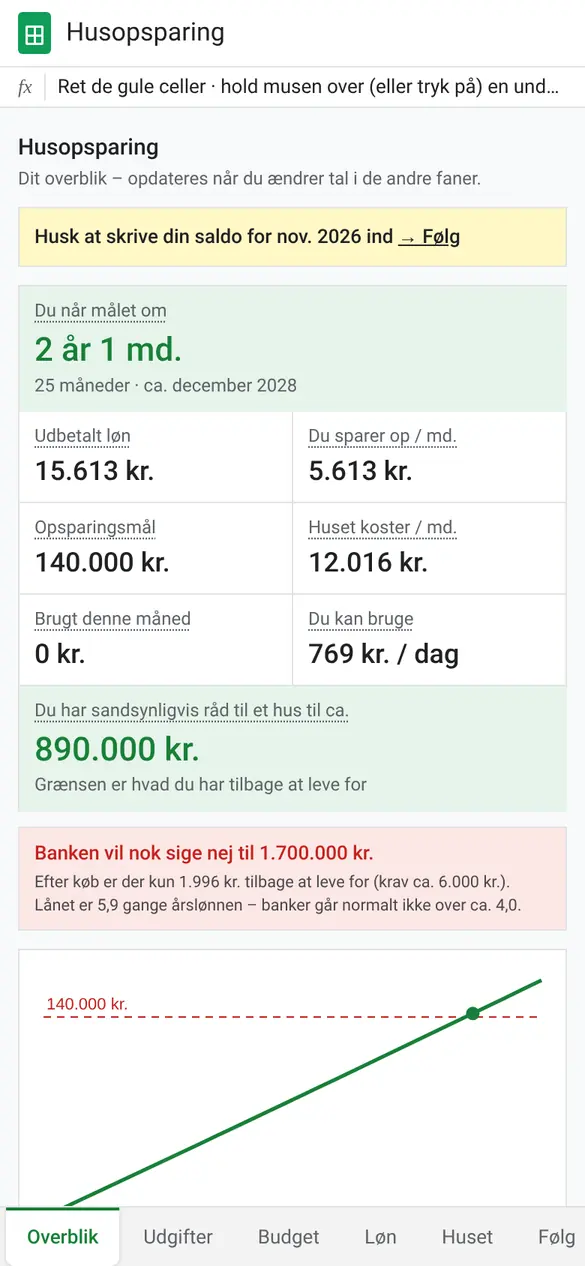
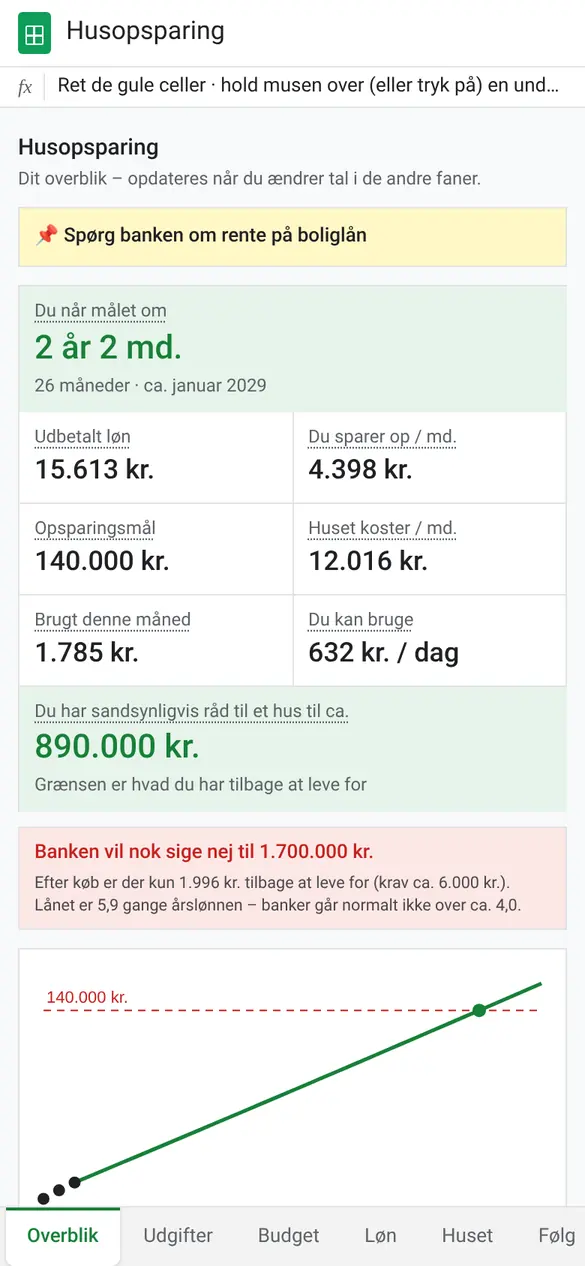
Husopsparing 1.2.0: ret/fortryd posteringer, hurtigknapper, egne kategorier, opsparingsmål, prognose og automatisk løn
Claude-Session: https://claude.ai/code/session_011iMT48mHBPjuzu49fkQZDg

diff --git a/apps/husopsparing/app/src/main/assets/index.html b/apps/husopsparing/app/src/main/assets/index.html
@@ -180,6 +180,21 @@ nav button.on{background:var(--card);color:var(--accent);font-weight:500;border-
 #m-txt{width:100%;font:12px/1.4 monospace;border:1px solid var(--grid);background:var(--bg);color:var(--ink);padding:8px}
 #u-list .trow{grid-template-columns:1.6fr .1fr 1fr auto}
 nav div{scrollbar-width:none}nav div::-webkit-scrollbar{display:none}
+.chips{display:flex;gap:6px;overflow-x:auto;padding:7px 8px;border-bottom:1px solid var(--grid);scrollbar-width:none}
+.chips::-webkit-scrollbar{display:none}
+.qchip{flex:none;border:1px solid var(--grid);background:var(--hdr);color:var(--ink);font:inherit;font-size:12px;padding:5px 10px;border-radius:14px;cursor:pointer;white-space:nowrap}
+.qchip small{color:var(--muted)}
+.tedit{cursor:pointer}.tedit:hover{color:var(--accent)}
+.trow.editing{background:var(--accent-soft)}
+.snack{position:fixed;left:50%;bottom:64px;transform:translateX(-50%);z-index:70;background:#323232;color:#fff;border-radius:4px;padding:10px 12px 10px 16px;display:none;align-items:center;gap:14px;max-width:92vw;box-shadow:0 3px 10px rgba(0,0,0,.3);font-size:13px}
+.snack.on{display:flex}
+.snack button{border:0;background:none;color:#8ab4f8;font:inherit;font-weight:600;cursor:pointer;text-transform:uppercase;letter-spacing:.03em}
+.goal{border-bottom:1px solid var(--grid)}.goal:last-child{border-bottom:0}
+.goal input.name{width:100%;box-sizing:border-box;font:inherit;font-weight:500;border:0;border-bottom:1px solid var(--grid);padding:7px 8px;background:transparent;color:var(--ink)}
+.goal input.name:focus{outline:2px solid #1a73e8;outline-offset:-2px}
+.mres{display:flex;align-items:center;gap:10px;padding:6px 8px;font-size:12.5px;color:var(--muted)}
+.mres .bar{flex:0 0 80px;margin:0}
+.mres span{flex:1}
 #tt{position:fixed;z-index:50;max-width:260px;background:#3c4043;color:#fff;font:12px/1.45 Roboto,Arial,sans-serif;padding:8px 10px;border-radius:4px;box-shadow:0 2px 8px rgba(0,0,0,.25);pointer-events:none;display:none}
 </style>
 <div class="topbar"><div class="t"><div class="logo"></div><div class="name">Husopsparing</div></div><div class="fx"><b>fx</b><span id="fxbar">Ret de gule celler · hold musen over (eller tryk på) en understreget tekst for en forklaring</span></div></div>
@@ -214,14 +229,16 @@ nav div{scrollbar-width:none}nav div::-webkit-scrollbar{display:none}
       <div class="tile"><div class="l">Tilbage af budget</div><div class="n" id="u-tilbage">–</div></div>
       <div class="tile hero"><div class="l">Du kan bruge</div><div class="n" id="u-dag">–</div><div class="l" id="u-dag-l"></div></div>
     </div>
-    <h2>Ny postering</h2>
+    <div id="u-prog" class="verdict" style="display:none"></div>
+    <h2 id="u-form-h">Ny postering</h2>
     <div class="card" id="u-form">
       <div class="seg" id="u-type"><button data-v="ud" class="on">Udgift</button><button data-v="ind">Indtægt</button></div>
+      <div class="chips" id="u-quick"></div>
       <div class="row"><label>Beløb</label><div class="inp"><input id="u-bel" inputmode="decimal" placeholder="0"><span>kr.</span></div></div>
       <div class="row"><label>Kategori</label><div><select id="u-kat"></select></div></div>
       <div class="row"><label>Note</label><div class="inp" style="background:var(--card)"><input id="u-note" placeholder="Fx Netto" style="text-align:left;width:140px"></div></div>
       <div class="row"><label>Dato</label><div class="inp" style="background:var(--card)"><input type="date" id="u-dato" style="width:140px"></div></div>
-      <div class="addrow" style="justify-content:flex-end"><button class="use" id="u-add">Gem postering</button></div>
+      <div class="addrow" style="justify-content:flex-end"><button class="use" id="u-cancel" style="background:var(--muted);display:none">Annullér</button><button class="use" id="u-add">Gem postering</button></div>
     </div>
     <h2>Budget pr. kategori i perioden</h2>
     <div class="card" id="u-kat-list"></div>
@@ -235,6 +252,7 @@ nav div{scrollbar-width:none}nav div::-webkit-scrollbar{display:none}
     <h2>Indstillinger og data</h2>
     <div class="card">
       <div class="row"><label>Måneden starter den<span class="hint">Din løndag</span></label><div class="inp"><input data-k="lonDag" inputmode="decimal"><span>.</span></div></div>
+      <label class="toggle"><input type="checkbox" id="u-autolon"> Bogfør min udbetalte løn automatisk på løndagen</label>
       <div class="addrow">
         <button class="use" id="u-csv">Eksportér CSV</button>
         <button class="use" id="u-backup">Gem backup</button>
@@ -285,6 +303,9 @@ nav div{scrollbar-width:none}nav div::-webkit-scrollbar{display:none}
     <h2>Dine udgifter</h2>
     <div class="card" id="b-items"></div>
     <button class="btn" id="add">+ Tilføj udgift</button>
+    <h2>Egne kategorier</h2>
+    <div class="card" id="k-list"></div>
+    <div class="card"><div class="addrow"><div class="inp" style="background:var(--card);flex:1"><input id="k-ny" placeholder="Fx Kæledyr" style="text-align:left;width:100%"></div><button class="use" id="k-add">Tilføj</button></div></div>
   </section>
 
   <section id="s-hus">
@@ -344,6 +365,10 @@ nav div{scrollbar-width:none}nav div::-webkit-scrollbar{display:none}
     <div id="t-status" class="verdict" style="display:none"></div>
     <div class="card" id="t-list"></div>
     <p class="note">Din seneste saldo bruges automatisk som "Allerede sparet op" under Huset.</p>
+    <h2>Andre opsparingsmål</h2>
+    <div class="card" id="m-list"></div>
+    <button class="btn" id="m-add">+ Nyt opsparingsmål</button>
+    <p class="note">Fx ferie, bil eller buffer. Når opsparingen følger budgettet, går beløbet til dine andre mål fra, før resten går til huset.</p>
   </section>
   <section id="s-noter">
     <h1>Noter</h1>
@@ -366,6 +391,7 @@ nav div{scrollbar-width:none}nav div::-webkit-scrollbar{display:none}
   </section>
 </main>
 
+<div id="snack" class="snack"><span id="snack-t"></span><button id="snack-b">Fortryd</button></div>
 <div id="modal" class="modal" style="display:none"><div class="mbox"><h1 id="m-t"></h1><p class="sub" id="m-s"></p><textarea id="m-txt" rows="8"></textarea><div class="addrow" style="justify-content:flex-end"><button class="use" id="m-ok"></button><button class="use" id="m-luk" style="background:var(--muted)">Luk</button></div></div></div>
 <nav><div>
   <button data-t="overblik" class="on"><b>◎</b>Overblik</button>
@@ -378,7 +404,9 @@ nav div{scrollbar-width:none}nav div::-webkit-scrollbar{display:none}
 </div></nav>
 
 <script>
-const KATS=["Bolig","Mad","Transport","Abonnementer","Forsikring","Fritid","Gæld og lån","Andet"];
+const BASE_KATS=["Bolig","Mad","Transport","Abonnementer","Forsikring","Fritid","Gæld og lån","Andet"];
+let KATS=BASE_KATS.slice();
+function refreshKats(){KATS=BASE_KATS.slice(0,-1).concat((S.egneKat||[]).filter(k=>k&&!BASE_KATS.includes(k)),["Andet"])}
 const FAST=["Transport","Abonnementer","Forsikring","Gæld og lån"];
 const FREQ={"Måned":1,"Kvartal":3,"Halvår":6,"År":12};
 const DEF={
@@ -397,7 +425,7 @@ const DEF={
     {n:"Tøj, fritid og andet",k:"Fritid",b:900,f:"Måned"}
   ],
   log:[],
-  noter:[],rOn:true,rDag:1,tx:[],lonDag:1,
+  noter:[],rOn:true,rDag:1,tx:[],lonDag:1,egneKat:[],maal:[],fastSkip:[],autoLon:false,
   fradr:[{n:"Kørselsfradrag",b:0},{n:"Fagforening og a-kasse",b:0},{n:"Renter på lån (fx billån, SU-lån)",b:0}]
 };
 const clone=o=>JSON.parse(JSON.stringify(o));
@@ -408,6 +436,7 @@ if(!S||typeof S!=="object")S=clone(DEF);
 for(const k in DEF)if(S[k]===undefined)S[k]=clone(DEF[k]);
 S.noter.forEach((n,i)=>{if(!n.id)n.id="n"+Date.now()+"_"+i});
 S.items.forEach((it,i)=>{if(!it.id)it.id="i"+Date.now()+"_"+i});
+refreshKats();
 let syncT=null;
 function save(){const j=JSON.stringify(S);
   if(NATIVE){try{App.save("data",j)}catch(e){}}else{try{localStorage.setItem("husopsparing",j)}catch(e){}}
@@ -463,7 +492,8 @@ function calc(){
   const netto=mig.netto+(par?par.netto:0);
   const ud=b.ud+(par?S.pUd:0);
   const over=netto-ud;
-  const spar=S.auto?over:S.manuel;
+  const andreMaal=maalBehov().sum;
+  const spar=S.auto?over-andreMaal:S.manuel;
   const sl=sidsteLog();
   const sparet=(sl?sl.v:S.sparet)+(S.partner?S.pSparet:0);
   const h=boligFor(S.pris);
@@ -483,7 +513,7 @@ function calc(){
   else{for(let i=0;i<50;i++){const m=(lo+hi)/2;okFor(m)?lo=m:hi=m}}
   const maxPris=Math.floor(lo/10000)*10000;
   const begr=maxPris>0?(boligFor(maxPris+10000).laan/bruttoAar>S.maxGang?"lån":"råd"):"";
-  return {mig,par,b,netto,ud,over,spar,sparet,sl,h,bufferKr,maal,n,andreFaste,rad,krav,leve,gang,maxPris,begr};
+  return {andreMaal,mig,par,b,netto,ud,over,spar,sparet,sl,h,bufferKr,maal,n,andreFaste,rad,krav,leve,gang,maxPris,begr};
 }
 const row=(k,v,cls)=>`<div class="row"><span class="k">${k}</span><span class="v"${cls?` style="color:var(--${cls})"`:""}>${v}</span></div>`;
 function dato(n){if(!isFinite(n))return"";const d=new Date();d.setMonth(d.getMonth()+n);return"ca. "+d.toLocaleDateString("da-DK",{month:"long",year:"numeric"})}
@@ -536,7 +566,7 @@ function render(){
   document.getElementById("sparet-hint").textContent=sl?"Hentes fra Følg ("+mdNavn(sl.m)+")":"";
   document.getElementById("manuel-row").style.display=S.auto?"none":"";
   document.getElementById("h-res1").innerHTML=
-    (S.auto?row("Opsparing pr. måned (fra budget)",kr(c.spar),c.spar<=0?"warn":""):"")+
+    (S.auto?(c.andreMaal>0?row("Til overs i budgettet",kr(c.over))+row("Til andre mål","−"+kr(c.andreMaal)):"")+row(c.andreMaal>0?"Opsparing pr. måned til huset":"Opsparing pr. måned (fra budget)",kr(c.spar),c.spar<=0?"warn":""):"")+
     (S.partner&&S.pSparet>0?row("Sparet op i alt (begge)",kr(c.sparet)):"")+
     row("Udbetaling",kr(h.udb))+row("Omkostninger",kr(S.omk))+(c.bufferKr>0?row("Buffer ("+fmtIn(S.buffer)+" md.)",kr(c.bufferKr)):"")+
     row("<b>Opsparingsmål i alt</b>",kr(c.maal))+row("Mangler endnu",kr(Math.max(0,c.maal-c.sparet)))+
@@ -701,7 +731,11 @@ function bookFaste(){
     let [y,m]=(it.fastFra||nuYM()).split("-").map(Number);m--;
     for(let k=0;k<36;k++){const dd=new Date(y,m+k,Math.min(28,it.dag||1));if(iso(dd)>today)break;
       const ym=iso(dd).slice(0,7);
-      if(!S.tx.some(t=>t.fast===it.id&&t.d.slice(0,7)===ym)){S.tx.push({id:"t"+Date.now()+"_"+(n++),d:iso(dd),b:+it.b||0,k:it.k,n:(it.n||"Fast betaling")+" (fast)",type:"ud",fast:it.id})}}});
+      if(!S.tx.some(t=>t.fast===it.id&&t.d.slice(0,7)===ym)&&!(S.fastSkip||[]).includes(it.id+"|"+ym)){S.tx.push({id:"t"+Date.now()+"_"+(n++),d:iso(dd),b:+it.b||0,k:it.k,n:(it.n||"Fast betaling")+" (fast)",type:"ud",fast:it.id})}}});
+  if(S.autoLon){let [y,m]=(S.autoLonFra||nuYM()).split("-").map(Number);m--;
+    const netto=Math.round(skatFor(S.brutto,S.kommune,S.pension,S.atp,S.fradr.reduce((a,f)=>a+(+f.b||0),0)).netto);
+    for(let k=0;k<36;k++){const dd=new Date(y,m+k,LD());if(iso(dd)>today)break;const ym=iso(dd).slice(0,7);
+      if(!S.tx.some(t=>t.fast==="lon"&&t.d.slice(0,7)===ym)&&!(S.fastSkip||[]).includes("lon|"+ym)){S.tx.push({id:"t"+Date.now()+"_"+(n++),d:iso(dd),b:netto,k:"Løn",n:"Løn (automatisk)",type:"ind",fast:"lon"})}}}
   if(n)save();
 }
 function udgStat(){
@@ -711,7 +745,13 @@ function udgStat(){
   const budget=budget0().ud, tilbage=budget-brugt;
   const dage=Math.max(1,Math.round((en-new Date(now.getFullYear(),now.getMonth(),now.getDate()))/86400000));
   const perKat={};ud.forEach(t=>perKat[t.k]=(perKat[t.k]||0)+t.b);
-  return {st,en,brugt,indt,budget,tilbage,dage,perDag:tilbage/dage,perKat};
+  const today=new Date(now.getFullYear(),now.getMonth(),now.getDate());
+  const gaaet=Math.max(1,Math.round((today-st)/86400000)+1), total=Math.round((en-st)/86400000);
+  const variabel=ud.filter(t=>!t.fast).reduce((a,t)=>a+t.b,0), fastBogf=ud.filter(t=>t.fast).reduce((a,t)=>a+t.b,0);
+  let fastKommer=0;S.items.forEach(it=>{if(!it.fast||it.f!=="Måned")return;[0,1].forEach(o=>{const d=new Date(st.getFullYear(),st.getMonth()+o,Math.min(28,it.dag||1));
+    if(d>today&&d<en&&!ud.some(t=>t.fast===it.id&&t.d.slice(0,7)===iso(d).slice(0,7)))fastKommer+=+it.b||0})});
+  const prognose=gaaet>=3&&variabel>0?variabel/gaaet*total+fastBogf+fastKommer:null;
+  return {st,en,brugt,indt,budget,tilbage,dage,perDag:tilbage/dage,perKat,prognose};
 }
 function budget0(){const kat={};KATS.forEach(k=>kat[k]=0);S.items.forEach(it=>{kat[it.k]=(kat[it.k]||0)+perMd(it)});return {kat,ud:Object.values(kat).reduce((a,b)=>a+b,0)}}
 let uType="ud";
@@ -723,6 +763,11 @@ function renderUdg(){
   const t=document.getElementById("u-tilbage");t.textContent=kr(u.tilbage);t.style.color=u.tilbage<0?"var(--warn)":"var(--accent)";
   document.getElementById("u-dag").textContent=u.tilbage>0?kr(u.perDag)+" om dagen":"0 kr. om dagen";
   document.getElementById("u-dag-l").textContent=u.dage+" dage tilbage af perioden"+(u.tilbage<0?" · du er "+kr(-u.tilbage)+" over budget":"");
+  const pg=document.getElementById("u-prog");
+  if(u.prognose!=null&&u.budget>0){const diff=u.budget-u.prognose;pg.style.display="";pg.className="verdict "+(diff>=0?"ok":"bad");
+    pg.innerHTML=`Prognose: ca. ${kr(u.prognose)} i denne periode<small>Med dit nuværende tempo ender du ${kr(Math.abs(diff))} ${diff>=0?"under":"over"} budgettet. Faste betalinger, der mangler, er regnet med.</small>`}
+  else pg.style.display="none";
+  renderQuick();
   document.getElementById("o-brugt").textContent=kr(u.brugt);
   const od=document.getElementById("o-dag");od.textContent=(u.tilbage>0?kr(u.perDag):"0 kr.")+" / dag";od.style.color=u.tilbage<0?"var(--warn)":"";
   // kategorier
@@ -734,8 +779,12 @@ function renderUdg(){
   const list=S.tx.slice().sort((a,b)=>a.d<b.d?1:a.d>b.d?-1:0).filter(t=>!q||(t.n+" "+t.k+" "+t.d).toLowerCase().includes(q)).slice(0,q?200:60);
   let last="";
   document.getElementById("u-list").innerHTML=list.map(t=>{const h=t.d!==last?`<div class="trow h"><span>${new Date(t.d+"T12:00").toLocaleDateString("da-DK",{weekday:"short",day:"numeric",month:"short"})}</span><span></span><span></span><span></span></div>`:"";last=t.d;
-    return h+`<div class="trow"><span>${esc(t.n||t.k)}<br><small style="color:var(--muted)">${t.k}</small></span><span></span><span style="color:var(--${t.type==="ind"?"accent":"ink"})">${t.type==="ind"?"+":"−"}${kr(t.b)}</span><span style="white-space:nowrap"><button class="del" data-rep="${t.id}" title="Gentag i dag">↻</button><button class="del" data-tdel="${t.id}" title="Slet">×</button></span></div>`}).join("")||`<div class="row"><span class="k" style="color:var(--muted)">${q?"Ingen posteringer matcher":"Ingen posteringer endnu"}</span></div>`;
-  document.querySelectorAll("[data-tdel]").forEach(x=>x.onclick=()=>{S.tx=S.tx.filter(t=>t.id!==x.dataset.tdel);save();render()});
+    return h+`<div class="trow${t.id===editId?" editing":""}"><span class="tedit" data-edit="${t.id}" title="Tryk for at rette">${esc(t.n||t.k)}<br><small style="color:var(--muted)">${esc(t.k)}${t.fast?" · fast":""}</small></span><span></span><span style="color:var(--${t.type==="ind"?"accent":"ink"})">${t.type==="ind"?"+":"−"}${kr(t.b)}</span><span style="white-space:nowrap"><button class="del" data-rep="${t.id}" title="Gentag i dag">↻</button><button class="del" data-tdel="${t.id}" title="Slet">×</button></span></div>`}).join("")||`<div class="row"><span class="k" style="color:var(--muted)">${q?"Ingen posteringer matcher":"Ingen posteringer endnu"}</span></div>`;
+  document.querySelectorAll("[data-tdel]").forEach(x=>x.onclick=()=>{const o=S.tx.find(t=>t.id===x.dataset.tdel);if(!o)return;
+    S.tx=S.tx.filter(t=>t!==o);const skip=o.fast?o.fast+"|"+o.d.slice(0,7):null;if(skip)S.fastSkip=(S.fastSkip||[]).concat(skip);
+    if(editId===o.id)resetForm();save();render();
+    snack(`Slettet: ${o.n||o.k} (${kr(o.b)})`,()=>{S.tx.push(o);if(skip)S.fastSkip=S.fastSkip.filter(x=>x!==skip);save();render()})});
+  document.querySelectorAll("[data-edit]").forEach(x=>x.onclick=()=>{const o=S.tx.find(t=>t.id===x.dataset.edit);if(o)startEdit(o)});
   document.querySelectorAll("[data-rep]").forEach(x=>x.onclick=()=>{const o=S.tx.find(t=>t.id===x.dataset.rep);if(!o)return;S.tx.push({...o,id:"t"+Date.now(),d:iso(new Date()),fast:undefined});save();render();if(NATIVE)try{App.toast("Gentaget: "+kr(o.b))}catch(e){}});
   drawUdgChart(u,b);
 }
@@ -753,16 +802,77 @@ function drawUdgChart(u,b){
   const prev=vals[4],cur=vals[5];
   document.getElementById("u-sammen").textContent=prev>0?("Sidste periode: "+kr(prev)+" ("+(cur>=prev?"+":"−")+Math.abs(Math.round((cur-prev)/prev*100))+" % indtil nu)"):"";
 }
-document.querySelectorAll("#u-type button").forEach(x=>x.onclick=()=>{uType=x.dataset.v;document.querySelectorAll("#u-type button").forEach(y=>y.classList.toggle("on",y===x));fillKat()});
-function fillKat(){const sel=document.getElementById("u-kat");const ks=uType==="ind"?["Løn","Gave","Andet"]:KATS;sel.innerHTML=ks.map(k=>`<option>${k}</option>`).join("")}
+document.querySelectorAll("#u-type button").forEach(x=>x.onclick=()=>{setType(x.dataset.v);renderQuick()});
+function fillKat(){const sel=document.getElementById("u-kat");const ks=uType==="ind"?["Løn","Gave","Andet"]:KATS;sel.innerHTML=ks.map(k=>`<option>${esc(k)}</option>`).join("");if(uType!=="ind")sel.value="Mad"}
 fillKat();
 document.getElementById("u-dato").value=iso(new Date());
 document.getElementById("u-sog").addEventListener("input",renderUdg);
-document.getElementById("u-add").addEventListener("click",()=>{
-  const bel=num(document.getElementById("u-bel").value);if(!(bel>0)){document.getElementById("u-bel").focus();return}
-  S.tx.push({id:"t"+Date.now(),d:document.getElementById("u-dato").value||iso(new Date()),b:bel,k:document.getElementById("u-kat").value,n:document.getElementById("u-note").value.trim(),type:uType});
-  document.getElementById("u-bel").value="";document.getElementById("u-note").value="";document.getElementById("u-dato").value=iso(new Date());
-  save();render();if(NATIVE)try{App.haptic("tick");App.toast("Gemt: "+kr(bel))}catch(e){}});
+let editId=null;
+const $id=x=>document.getElementById(x);
+function setType(v){uType=v;document.querySelectorAll("#u-type button").forEach(y=>y.classList.toggle("on",y.dataset.v===v));fillKat()}
+function resetForm(){editId=null;$id("u-bel").value="";$id("u-note").value="";$id("u-dato").value=iso(new Date());
+  $id("u-add").textContent="Gem postering";$id("u-cancel").style.display="none";$id("u-form-h").textContent="Ny postering";
+  const h=$id("u-form-h").querySelector(".tip");if(h)h.textContent="Ny postering"}
+function startEdit(o){editId=o.id;setType(o.type==="ind"?"ind":"ud");
+  const sel=$id("u-kat");if(![...sel.options].some(op=>op.value===o.k))sel.insertAdjacentHTML("beforeend",`<option>${esc(o.k)}</option>`);sel.value=o.k;
+  $id("u-bel").value=fmtIn(o.b);$id("u-note").value=o.n||"";$id("u-dato").value=o.d;
+  $id("u-add").textContent="Gem ændring";$id("u-cancel").style.display="";$id("u-form-h").textContent="Ret postering";
+  renderUdg();$id("u-form-h").scrollIntoView({behavior:"smooth",block:"start"});setTimeout(()=>$id("u-bel").focus(),300)}
+$id("u-cancel").onclick=()=>{resetForm();renderUdg()};
+$id("u-add").addEventListener("click",()=>{
+  const bel=num($id("u-bel").value);if(!(bel>0)){$id("u-bel").focus();return}
+  const v={d:$id("u-dato").value||iso(new Date()),b:bel,k:$id("u-kat").value,n:$id("u-note").value.trim(),type:uType};
+  if(editId){const o=S.tx.find(t=>t.id===editId);if(o)Object.assign(o,v);resetForm();save();render();if(NATIVE)try{App.toast("Rettet")}catch(e){}return}
+  S.tx.push({id:"t"+Date.now(),...v});
+  resetForm();save();render();if(NATIVE)try{App.haptic("tick");App.toast("Gemt: "+kr(bel))}catch(e){}});
+function renderQuick(){
+  const box=$id("u-quick");if(uType!=="ud"||editId){box.style.display="none";return}
+  const since=iso(new Date(Date.now()-120*86400000)),cnt={};
+  S.tx.forEach(t=>{if(t.type==="ind"||t.fast||!t.n||t.d<since)return;const k=t.n+"|"+t.k;cnt[k]=(cnt[k]||0)+1});
+  const top=Object.entries(cnt).sort((a,b)=>b[1]-a[1]).slice(0,6);
+  box.style.display=top.length?"":"none";
+  box.innerHTML=top.map(([k])=>{const [n,kat]=k.split("|");return `<button class="qchip" data-n="${esc(n)}" data-k="${esc(kat)}">${esc(n)} <small>${esc(kat)}</small></button>`}).join("");
+  box.querySelectorAll(".qchip").forEach(b=>b.onclick=()=>{$id("u-note").value=b.dataset.n;const sel=$id("u-kat");if(![...sel.options].some(o=>o.value===b.dataset.k))sel.insertAdjacentHTML("beforeend",`<option>${esc(b.dataset.k)}</option>`);sel.value=b.dataset.k;$id("u-bel").focus()});
+}
+let snackT=null;
+function snack(text,undo){const el=$id("snack");$id("snack-t").textContent=text;const b=$id("snack-b");b.style.display=undo?"":"none";
+  b.onclick=()=>{el.classList.remove("on");clearTimeout(snackT);undo&&undo()};el.classList.add("on");clearTimeout(snackT);snackT=setTimeout(()=>el.classList.remove("on"),6000)}
+const al=$id("u-autolon");al.checked=!!S.autoLon;al.onchange=()=>{S.autoLon=al.checked;if(al.checked&&!S.autoLonFra)S.autoLonFra=nuYM();save();bookFaste();render()};
+/* ===== Egne kategorier ===== */
+function renderKats(){
+  const box=$id("k-list"),eg=(S.egneKat||[]);
+  box.innerHTML=eg.length?eg.map((k,i)=>`<div class="row"><span class="k">${esc(k)}</span><div><button class="del" data-kdel="${i}" title="Slet">×</button></div></div>`).join(""):`<div class="row"><span class="k" style="color:var(--muted)">Ingen egne kategorier endnu</span></div>`;
+  box.querySelectorAll("[data-kdel]").forEach(b=>b.onclick=()=>{const k=eg[+b.dataset.kdel];const snap=JSON.stringify({items:S.items,tx:S.tx,egneKat:S.egneKat});
+    S.egneKat=eg.filter(x=>x!==k);S.items.forEach(it=>{if(it.k===k)it.k="Andet"});S.tx.forEach(t=>{if(t.k===k)t.k="Andet"});
+    refreshKats();save();renderKats();renderItems();fillKat();render();
+    snack(`Kategorien "${k}" er slettet – posterne er flyttet til Andet`,()=>{Object.assign(S,JSON.parse(snap));refreshKats();save();renderKats();renderItems();fillKat();render()})});
+}
+$id("k-add").onclick=()=>{const inp=$id("k-ny"),k=inp.value.trim().replace(/\s+/g," ");if(!k){inp.focus();return}
+  if(KATS.some(x=>x.toLowerCase()===k.toLowerCase())){snack(`"${k}" findes allerede`);return}
+  S.egneKat=(S.egneKat||[]).concat(k);inp.value="";refreshKats();save();renderKats();renderItems();fillKat();render()};
+$id("k-ny").addEventListener("keydown",e=>{if(e.key==="Enter")$id("k-add").click()});
+/* ===== Andre opsparingsmål ===== */
+function maalBehov(){let sum=0;const list=(S.maal||[]).map(m=>{const mangler=Math.max(0,(+m.belob||0)-(+m.sparet||0));
+    const md=m.dato?Math.max(1,mdDiff(nuYM(),m.dato)):0;const pr=md&&mangler>0?mangler/md:0;sum+=pr;return {m,mangler,md,pr}});return {sum,list}}
+function renderMaal(){
+  const box=$id("m-list"),{list}=maalBehov();
+  box.innerHTML=list.length?list.map(({m,mangler,md,pr},i)=>{const p=(+m.belob||0)>0?Math.min(1,(+m.sparet||0)/m.belob):0;
+    return `<div class="goal" data-i="${i}"><input class="name" value="${esc(m.n||"")}" placeholder="Navn, fx Ferie" data-f="n">
+    <div class="row"><label>Beløb du vil nå</label><div class="inp"><input data-f="belob" inputmode="decimal" value="${fmtIn(m.belob||0)}"><span>kr.</span></div></div>
+    <div class="row"><label>Sparet op indtil nu</label><div class="inp"><input data-f="sparet" inputmode="decimal" value="${fmtIn(m.sparet||0)}"><span>kr.</span></div></div>
+    <div class="row"><label>Nås senest</label><div class="inp"><input type="month" data-f="dato" value="${m.dato||""}"></div></div>
+    <div class="mres"><div class="bar"><i style="width:${p*100}%"></i></div><span>${mangler<=0?"🎉 Målet er nået":(md?`Spar <b>${kr(pr)}</b> om måneden i ${md} md.`:"Vælg hvornår du vil nå målet")}</span><button class="del" data-mdel="${i}" title="Slet">×</button></div></div>`}).join("")
+    :`<div class="row"><span class="k" style="color:var(--muted)">Ingen andre mål endnu</span></div>`;
+  box.querySelectorAll(".goal").forEach(r=>{const i=+r.dataset.i;
+    r.querySelectorAll("[data-f]").forEach(el=>{const f=el.dataset.f;
+      el.addEventListener(f==="dato"?"change":"input",()=>{S.maal[i][f]=f==="n"||f==="dato"?el.value:num(el.value);save();render();if(f!=="n")renderMaal()});
+      if(f==="belob"||f==="sparet"){el.addEventListener("blur",()=>el.value=fmtIn(S.maal[i][f]||0));el.addEventListener("focus",()=>el.select())}});
+    r.querySelector("[data-mdel]").onclick=()=>{const o=S.maal.splice(i,1)[0];save();renderMaal();render();snack(`Slettet: ${o.n||"mål"}`,()=>{S.maal.splice(i,0,o);save();renderMaal();render()})};
+  });
+  applyTips&&applyTips();
+}
+$id("m-add").onclick=()=>{const d=new Date();d.setMonth(d.getMonth()+12);S.maal=(S.maal||[]).concat({id:"m"+Date.now(),n:"",belob:10000,sparet:0,dato:d.getFullYear()+"-"+String(d.getMonth()+1).padStart(2,"0")});save();renderMaal();render();
+  const ins=document.querySelectorAll("#m-list .goal input.name");ins[ins.length-1].focus()};
 document.getElementById("u-bel").addEventListener("keydown",e=>{if(e.key==="Enter")document.getElementById("u-add").click()});
 function csvOut(){const rows=[["Dato","Type","Kategori","Note","Beløb"]].concat(S.tx.slice().sort((a,b)=>a.d.localeCompare(b.d)).map(t=>[t.d,t.type==="ind"?"Indtægt":"Udgift",t.k,t.n||"",(t.type==="ind"?1:-1)*t.b]));
   return "\ufeff"+rows.map(r=>r.map(v=>typeof v==="number"?String(v).replace(".",","):`"${String(v).replace(/"/g,'""')}"`).join(";")).join("\r\n")}
@@ -772,7 +882,7 @@ function parseCsv(txt){txt=txt.replace(/^\ufeff/,"");const out=[];const lines=tx
     const ind=(type||"").toLowerCase().startsWith("ind")||v>0&&!(type||"").toLowerCase().startsWith("ud");
     out.push({id:"t"+Date.now()+"_"+i,d,b:Math.abs(v),k:KATS.includes(k)?k:(ind?(k||"Andet"):"Andet"),n:(n||"")+(KATS.includes(k)||!k?"":" ("+k+")"),type:ind?"ind":"ud"})});return out}
 function importTxt(txt){txt=(txt||"").trim();if(!txt)return;
-  if(txt[0]==="{"){try{const o=JSON.parse(txt);if(!o||typeof o!=="object")throw 0;S=Object.assign(clone(DEF),o);save();bindInputs();renderItems();renderFradr();renderNoter();render();msg("Backup gendannet.");}catch(e){msg("Kunne ikke læse backuppen.")}return}
+  if(txt[0]==="{"){try{const o=JSON.parse(txt);if(!o||typeof o!=="object")throw 0;S=Object.assign(clone(DEF),o);refreshKats();save();bindInputs();renderItems();renderFradr();renderNoter();renderKats();renderMaal();render();msg("Backup gendannet.");}catch(e){msg("Kunne ikke læse backuppen.")}return}
   const nye=parseCsv(txt);const kendt=new Set(S.tx.map(t=>t.d+"|"+t.b+"|"+t.n));const add=nye.filter(t=>!kendt.has(t.d+"|"+t.b+"|"+t.n));S.tx.push(...add);save();render();msg(add.length+" posteringer importeret.")}
 function msg(t){if(NATIVE)try{App.toast(t);return}catch(e){}document.getElementById("u-periode").textContent=t}
 function modal(title,sub,text,okLabel,onOk){const m=document.getElementById("modal");document.getElementById("m-t").textContent=title;document.getElementById("m-s").textContent=sub;const ta=document.getElementById("m-txt");ta.value=text||"";document.getElementById("m-ok").textContent=okLabel;
@@ -803,7 +913,7 @@ document.getElementById("t-add").addEventListener("click",()=>{
   S.log=S.log.filter(e=>e.m!==tmd.value);S.log.push({m:tmd.value,v:num(tbel.value)});tbel.value="";save();render()});
 let armed=false;const rb=document.getElementById("reset");
 rb.addEventListener("click",()=>{if(!armed){armed=true;rb.textContent="Tryk igen for at nulstille alt (også din opsparingshistorik)";setTimeout(()=>{armed=false;rb.textContent="Nulstil alle tal til eksemplet"},3000);return}
-  S=clone(DEF);save();bindInputs();renderItems();renderFradr();renderNoter();rOn.checked=!!S.rOn;render();armed=false;rb.textContent="Nulstil alle tal til eksemplet"});
+  S=clone(DEF);refreshKats();save();bindInputs();renderItems();renderFradr();renderNoter();renderKats();renderMaal();rOn.checked=!!S.rOn;$id("u-autolon").checked=false;render();armed=false;rb.textContent="Nulstil alle tal til eksemplet"});
 
 const TABS=["overblik","udgifter","lon","budget","hus","spor","noter"];
 function show(t){let fokus=false;if(t==="ny"){t="udgifter";fokus=true}if(!TABS.includes(t))t="overblik";
@@ -906,6 +1016,16 @@ const TIPS={
 "måneden starter den":"Vælg din løndag, så perioden passer med din løn – fx den 1. eller den sidste bankdag.",
 "indstillinger og data":"Eksportér dine posteringer til Excel, gem en backup, eller gendan fra en backup eller CSV-fil fra Mønt.",
 "beløb":"Beløbet for posteringen.","kategori":"Hvilken type udgift det er – bruges til at sammenligne med budgettet.","note":"Fx butikkens navn, så du kan finde den igen.","dato":"Hvornår pengene blev brugt.",
+"egne kategorier":"Lav dine egne kategorier, fx Kæledyr eller Gaver. Sletter du en, flyttes dens poster til Andet.",
+"andre opsparingsmål":"Spar op til andet end huset – fx ferie eller bil. Appen regner ud, hvor meget du skal lægge til side hver måned.",
+"beløb du vil nå":"Hvor meget du vil have sparet op til målet.",
+"sparet op indtil nu":"Det, du allerede har lagt til side til dette mål.",
+"nås senest":"Måneden, hvor du vil have nået målet. Jo længere tid, jo mindre skal du spare pr. måned.",
+"til andre mål":"Det, du skal spare op hver måned til dine andre opsparingsmål (under Følg). Det trækkes fra, før resten går til huset.",
+"til overs i budgettet":"Din udbetalte løn minus alle udgifter i budgettet.",
+"opsparing pr. måned til huset":"Det, der er tilbage til huset, efter dine andre opsparingsmål har fået deres del.",
+"bogfør min udbetalte løn":"Lægger automatisk din udbetalte løn ind som en indtægt på din løndag hver måned.",
+"ret postering":"Du retter en eksisterende postering. Tryk Gem ændring, når du er færdig.",
 "plan":"Det, du burde have haft, hvis du havde sparet op som planlagt fra din første registrering."
 };
 const TIPKEYS=Object.keys(TIPS).sort((a,b)=>b.length-a.length);
@@ -932,7 +1052,7 @@ document.addEventListener("mouseout",e=>{const t=e.target.closest&&e.target.clos
 document.addEventListener("click",e=>{const t=e.target.closest&&e.target.closest(".tip");if(t){e.preventDefault();ttFor===t&&TT.style.display==="block"?hideTip():showTip(t)}else hideTip()},true);
 window.addEventListener("scroll",hideTip,{passive:true});
 
-bookFaste();bindInputs();renderItems();renderFradr();renderNoter();show(location.hash.slice(1));syncNative();
+bookFaste();bindInputs();renderItems();renderFradr();renderNoter();renderKats();renderMaal();show(location.hash.slice(1));syncNative();
 </script>
 </body>
 </html>
